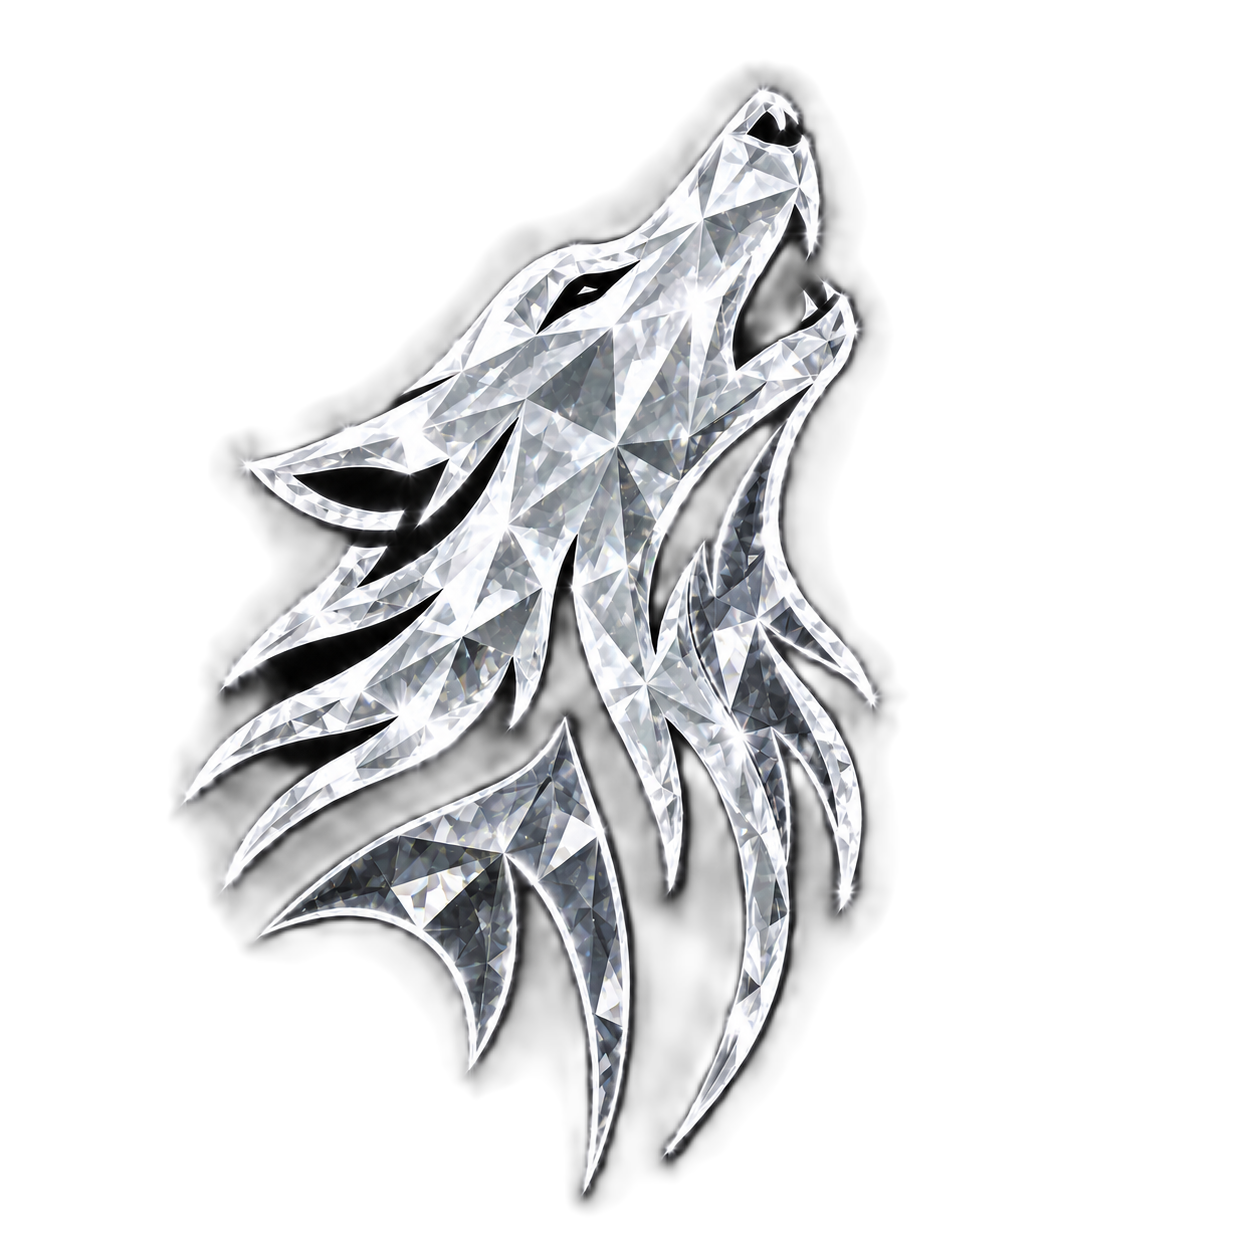
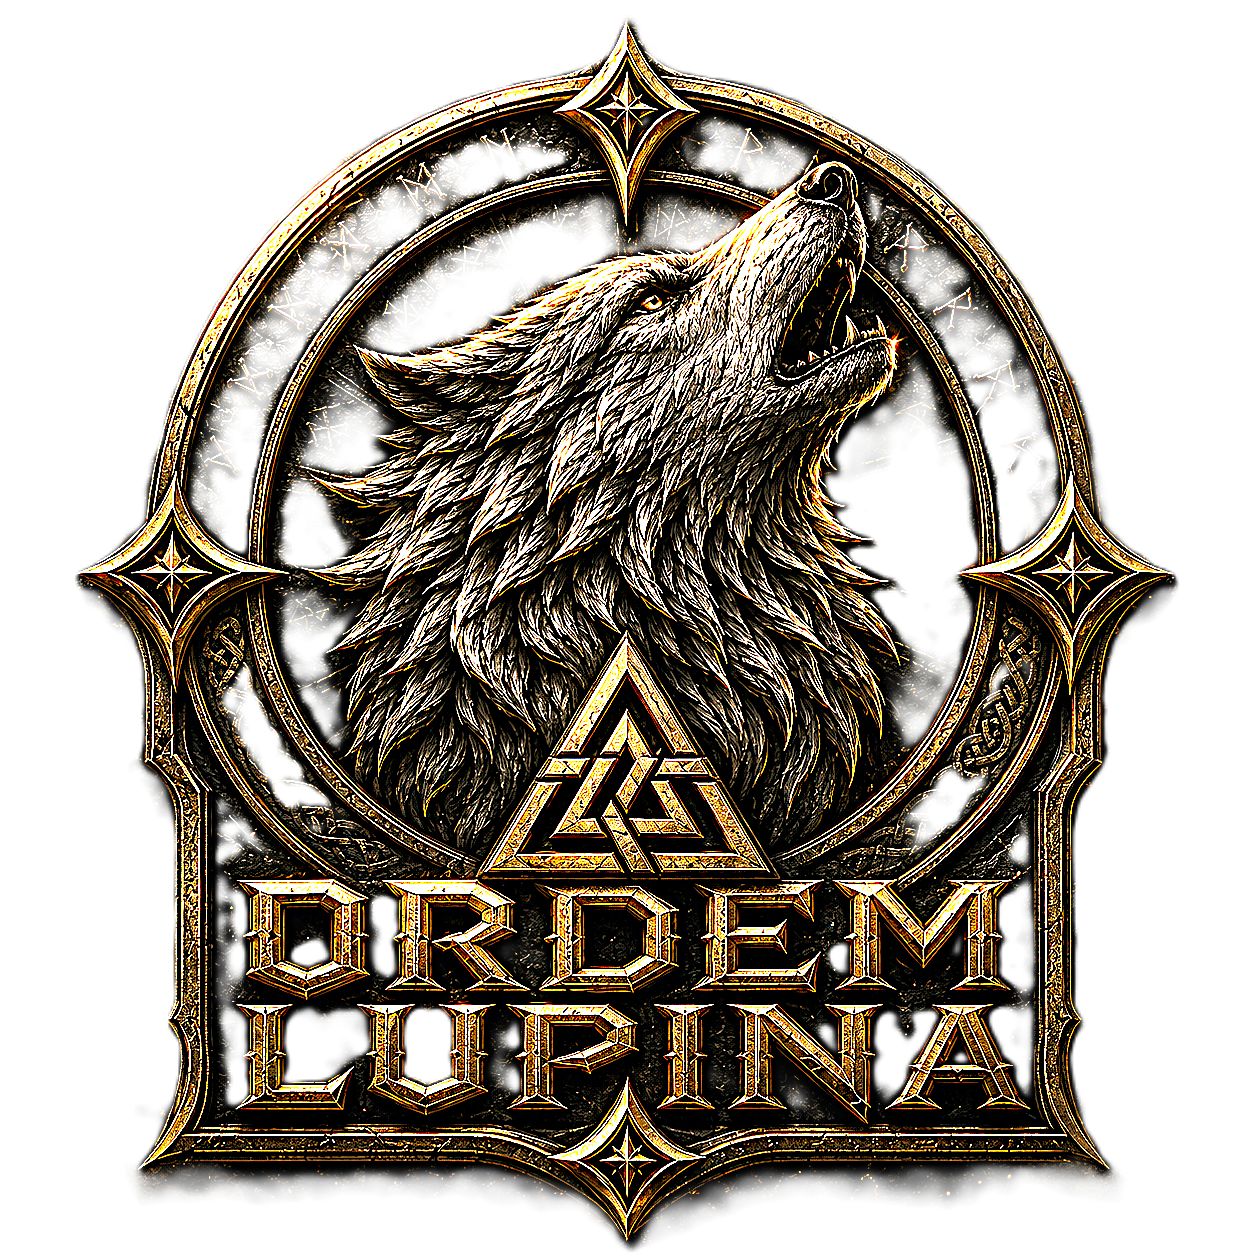
feat: update infernal brutal hero scene

diff --git a/app/components/AnimatedLogo.tsx b/app/components/AnimatedLogo.tsx
@@ -1,0 +1,173 @@
+"use client";
+
+export default function AnimatedLogo() {
+  return (
+    <div className="logo-wrapper">
+      <div className="logo-aura"></div>
+      <div className="logo-ring"></div>
+      <div className="logo-orbit orbit-1"></div>
+      <div className="logo-orbit orbit-2"></div>
+      <div className="logo-flash"></div>
+
+      <img src="/www.png" alt="Ordem Lupina" className="hero-logo" />
+
+      <style jsx>{`
+        .logo-wrapper {
+          position: relative;
+          width: 260px;
+          height: 260px;
+          display: flex;
+          justify-content: center;
+          align-items: center;
+          margin: 0 auto 28px;
+          animation:
+            logoFloat 6s ease-in-out infinite,
+            logoShake 5s infinite;
+        }
+
+        .logo-aura {
+          position: absolute;
+          width: 190px;
+          height: 190px;
+          border-radius: 50%;
+          background:
+            radial-gradient(circle,
+              rgba(255,0,0,.55) 0%,
+              rgba(255,0,0,.22) 35%,
+              transparent 70%);
+          filter: blur(35px);
+          animation: auraPulse 2.3s infinite ease-in-out;
+        }
+
+        .logo-ring {
+          position: absolute;
+          width: 220px;
+          height: 220px;
+          border-radius: 50%;
+          border: 1px solid rgba(255,0,0,.28);
+          box-shadow:
+            0 0 25px rgba(255,0,0,.5),
+            inset 0 0 25px rgba(255,0,0,.25);
+          animation: ringRotate 8s linear infinite;
+        }
+
+        .logo-orbit {
+          position: absolute;
+          width: 10px;
+          height: 10px;
+          border-radius: 50%;
+          background: rgba(255,120,0,.9);
+          box-shadow:
+            0 0 10px rgba(255,120,0,1),
+            0 0 20px rgba(255,0,0,.8);
+        }
+
+        .orbit-1 {
+          animation: orbit1 5s linear infinite;
+        }
+
+        .orbit-2 {
+          animation: orbit2 7s linear infinite;
+        }
+
+        .logo-flash {
+          position: absolute;
+          inset: 0;
+          background: radial-gradient(circle, rgba(255,255,255,.4), transparent 60%);
+          opacity: 0;
+          animation: flashSync 5s infinite;
+          border-radius: 50%;
+        }
+
+        .hero-logo {
+          position: relative;
+          width: 190px;
+          z-index: 10;
+          filter:
+            drop-shadow(0 0 12px rgba(255,0,0,.9))
+            drop-shadow(0 0 28px rgba(255,0,0,.8))
+            drop-shadow(0 0 80px rgba(255,0,0,.55));
+          animation:
+            logoBreath 3s infinite ease-in-out,
+            logoFlicker 4s infinite;
+        }
+
+        @keyframes auraPulse {
+          0%,100% {
+            transform: scale(1);
+            opacity: .55;
+          }
+          50% {
+            transform: scale(1.16);
+            opacity: 1;
+          }
+        }
+
+        @keyframes ringRotate {
+          from { transform: rotate(0deg); }
+          to { transform: rotate(360deg); }
+        }
+
+        @keyframes orbit1 {
+          0% { transform: rotate(0deg) translateX(110px); }
+          100% { transform: rotate(360deg) translateX(110px); }
+        }
+
+        @keyframes orbit2 {
+          0% { transform: rotate(360deg) translateX(90px); }
+          100% { transform: rotate(0deg) translateX(90px); }
+        }
+
+        @keyframes flashSync {
+          0%,100% { opacity: 0; }
+          46% { opacity: .15; }
+          47% { opacity: .7; }
+          48% { opacity: 0; }
+        }
+
+        @keyframes logoBreath {
+          0%,100% { transform: scale(1); }
+          50% { transform: scale(1.06); }
+        }
+
+        @keyframes logoFloat {
+          0%,100% { transform: translateY(0px); }
+          50% { transform: translateY(-8px); }
+        }
+
+        @keyframes logoFlicker {
+          0%,100% { opacity: 1; }
+          47% { opacity: .75; }
+          48% { opacity: 1; }
+        }
+
+        @keyframes logoShake {
+          0%,100% { transform: translate(0,0); }
+          47% { transform: translate(-1px,1px); }
+          48% { transform: translate(1px,-1px); }
+        }
+
+        @media (max-width: 768px) {
+          .logo-wrapper {
+            width: 140px;
+            height: 140px;
+          }
+
+          .hero-logo {
+            width: 110px;
+          }
+
+          .logo-ring {
+            width: 130px;
+            height: 130px;
+          }
+
+          .logo-aura {
+            width: 120px;
+            height: 120px;
+          }
+        }
+      `}</style>
+    </div>
+  );
+}

diff --git a/app/components/HeroScene.tsx b/app/components/HeroScene.tsx
@@ -79,19 +79,19 @@ export default function HeroScene() {
           inset: 0;
           background: url('/bg/AA-clean.png') center center / cover no-repeat;
           transform: scale(1.08);
-          filter: brightness(0.85) contrast(1.15) saturate(1.15);
+          filter: brightness(0.42) contrast(1.30) saturate(1.2);
           animation: slowZoom 22s infinite alternate ease-in-out;
         }
 
-        /* ── OVERLAY ── (suavizado para deixar a imagem visível, igual à landing) */
+        /* ── OVERLAY ── */
         .hero-overlay {
           position: absolute;
           inset: 0;
           background:
             radial-gradient(circle at center,
-              rgba(80,0,0,.28) 0%,
-              rgba(0,0,0,.55) 55%,
-              rgba(0,0,0,.88) 100%);
+              rgba(60,0,0,.25) 0%,
+              rgba(0,0,0,.72) 50%,
+              rgba(0,0,0,.96) 100%);
           z-index: 2;
         }
 